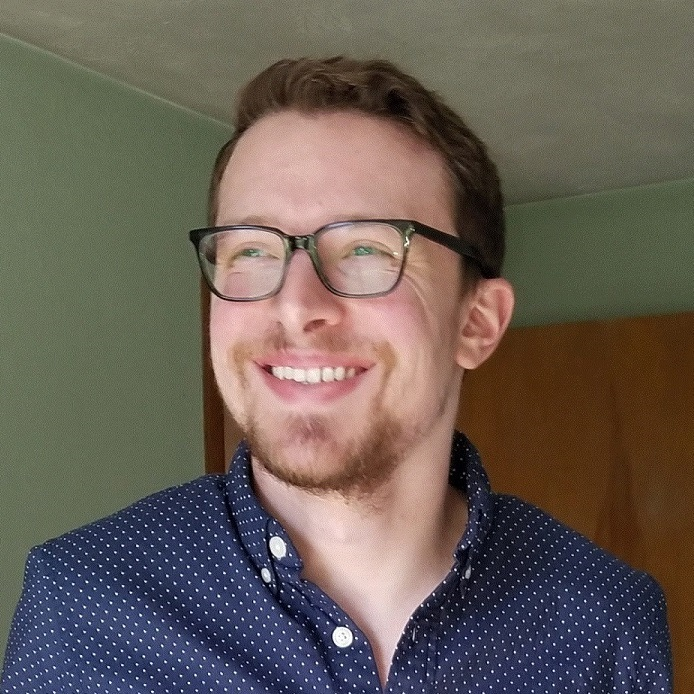
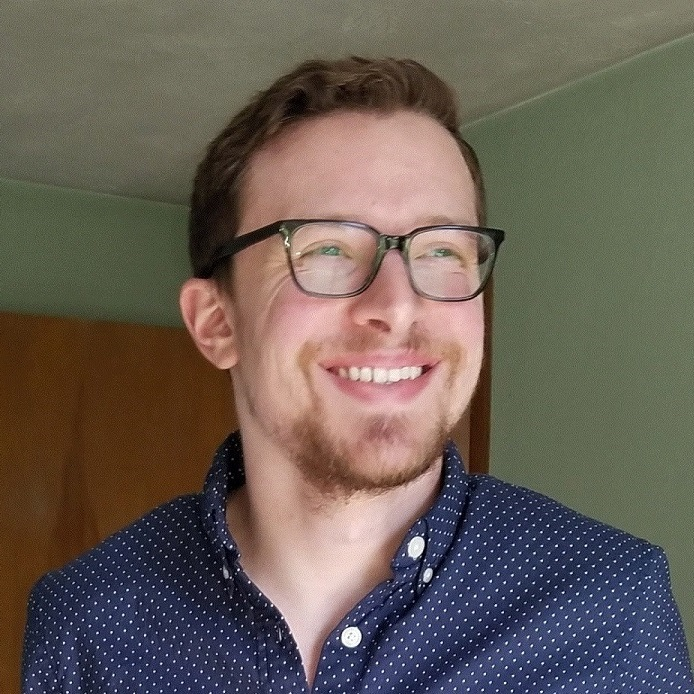
added styles to about me section, changed pictures

diff --git a/index.html b/index.html
@@ -71,7 +71,7 @@
         <!-- About Me -->
         <section class="about-me" id="about">
             <h2 class="section__title section__title--about">Who I am</h2>
-            <p class="section__subtitle section__subtitle--about">Designer and developer based out of Portland, Oregon</p>
+            <p class="section__subtitle section__subtitle--about">Developer based out of Portland, Oregon</p>
 
             <div class="about-me__body">
                 <p>I am a graduate of Portland State University Class of 2021</p>
@@ -79,7 +79,7 @@
                     Lorem ipsum dolor sit amet, consectetur adipiscing elit. Aliquam in mauris nulla.
                 </p>
             </div>
-            <img src="img/dev-me-02.jpg" alt="A picture of Brandon under an umbrella on a sunny day">
+            <img src="img/dev-me-02.jpg" alt="A picture of Brandon under an umbrella on a sunny day" class="about-me__img">
         </section>
 
         <!-- My Work -->

diff --git a/css/style.css b/css/style.css
@@ -212,3 +212,43 @@ nav{ display: none;}
     }
 }
 
+.about-me{
+    max-width: 1000px;
+    margin: 0 auto;
+}
+
+.about-me__img{
+    box-shadow: var(--bs);
+}
+
+@media (min-width: 600px){
+    .about-me{
+        display: grid;
+        grid-template-columns: 1fr 200px;
+        grid-template-areas:
+            "title img"
+            "subtitle img"
+            "text img";
+        column-gap: 2em;
+    }
+
+    .section__title--about{
+        grid-area: title;
+    }
+
+    .section__subtitle--about{
+        grid-column: 1/-1;
+        grid-row: 2;
+        position: relative;
+        left: -1em;
+        width: calc(100% + 2em);
+        padding-left: 1em;
+        padding-right: calc(200px + 4em);
+    }
+
+    .about-me__img{
+        grid-area: img;
+        position: relative;
+        z-index: 2;
+    }
+}
